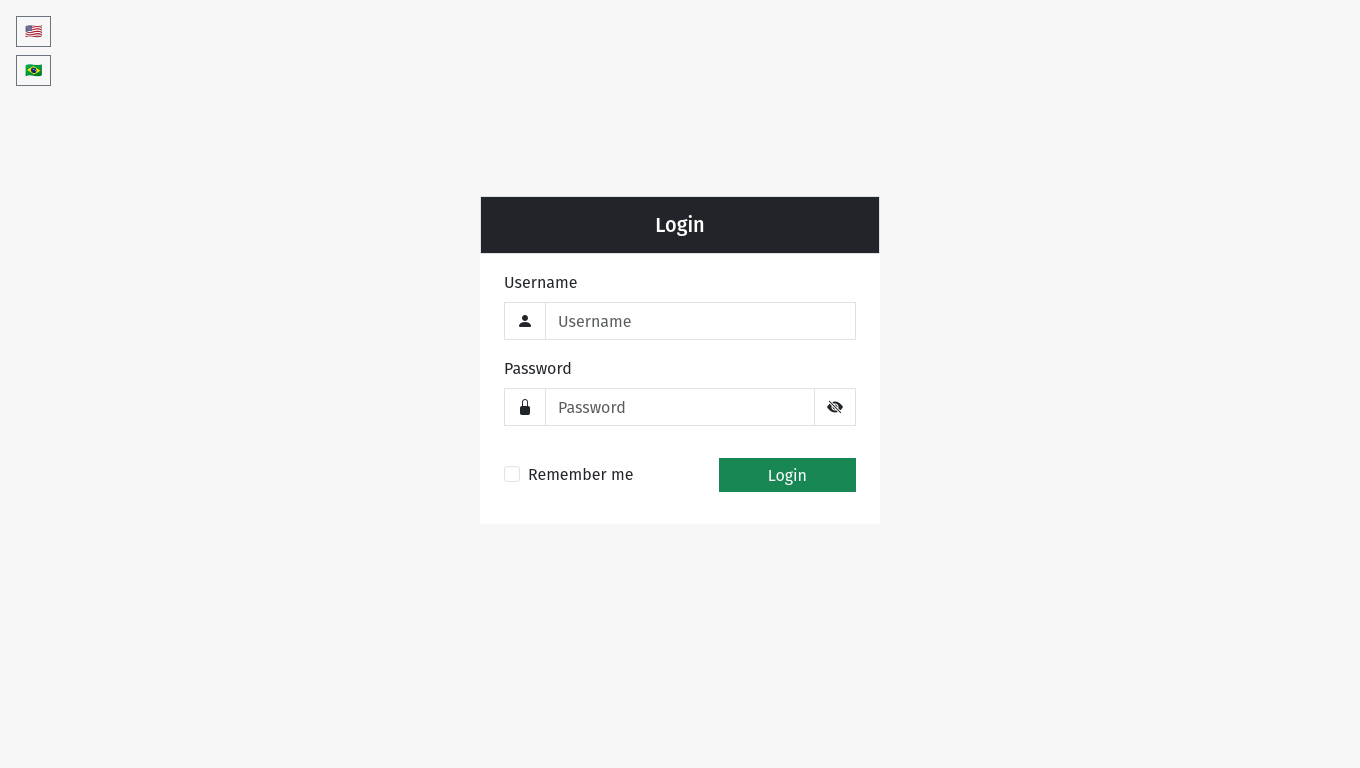
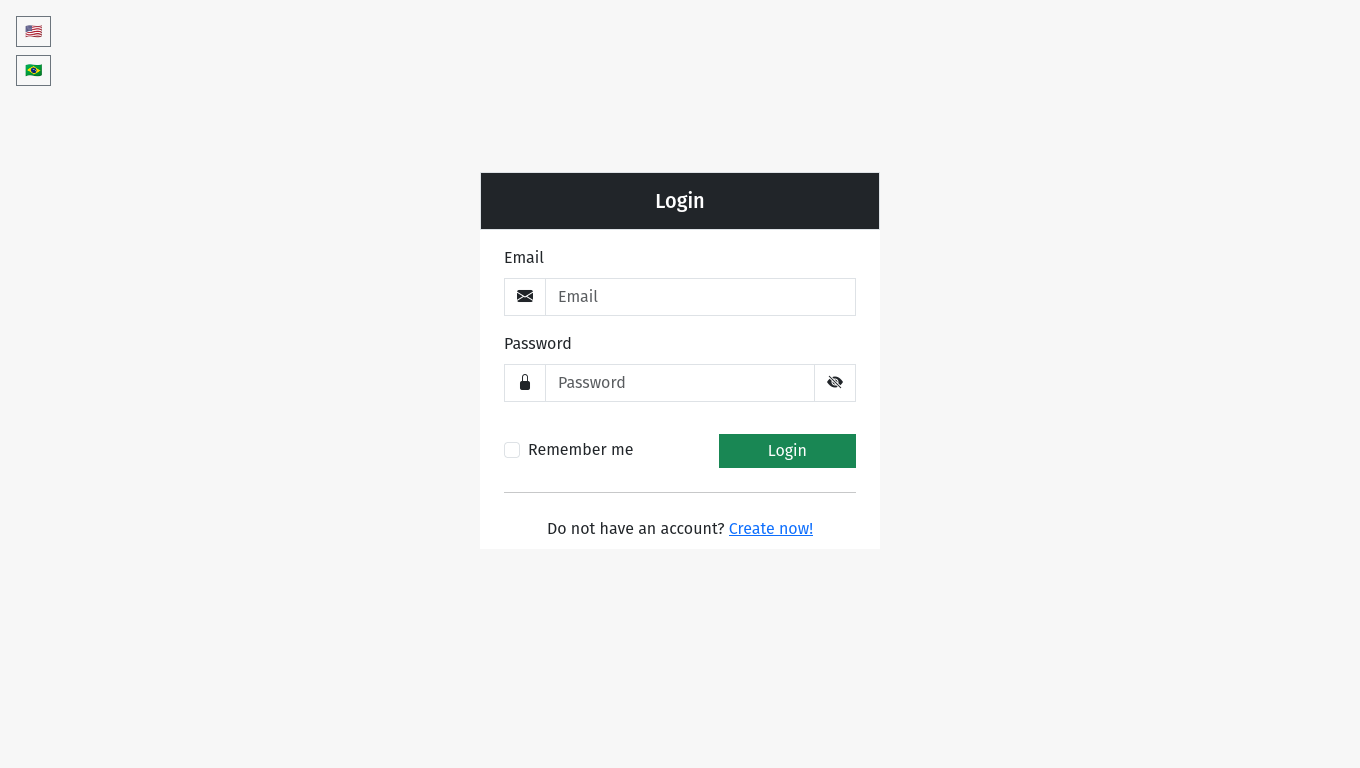
docs: update project description to accomplish the new feature

Changed region(s): [[0.3397, 0.2188, 0.6485, 0.625], [0.525, 0.4688, 0.6485, 0.6562], [0.4015, 0.6875, 0.5868, 0.7188]]

diff --git a/README.md b/README.md
@@ -13,6 +13,7 @@ Inventory Management System is a simple prototype application for inventory mana
 
 ## Features
 
+- User can register their account
 - User can authenticate through the system.
 - User can log out from the system
 - User can view information on dashboard.
@@ -60,7 +61,7 @@ Start the application
 ```
 
 The application will start at `http://localhost:8080/`
-with user `admin` and password `admin` with prefilled data.
+with a default user with email `user@email.com` and password `password` with prefilled data.
 
 ### Tests
 
